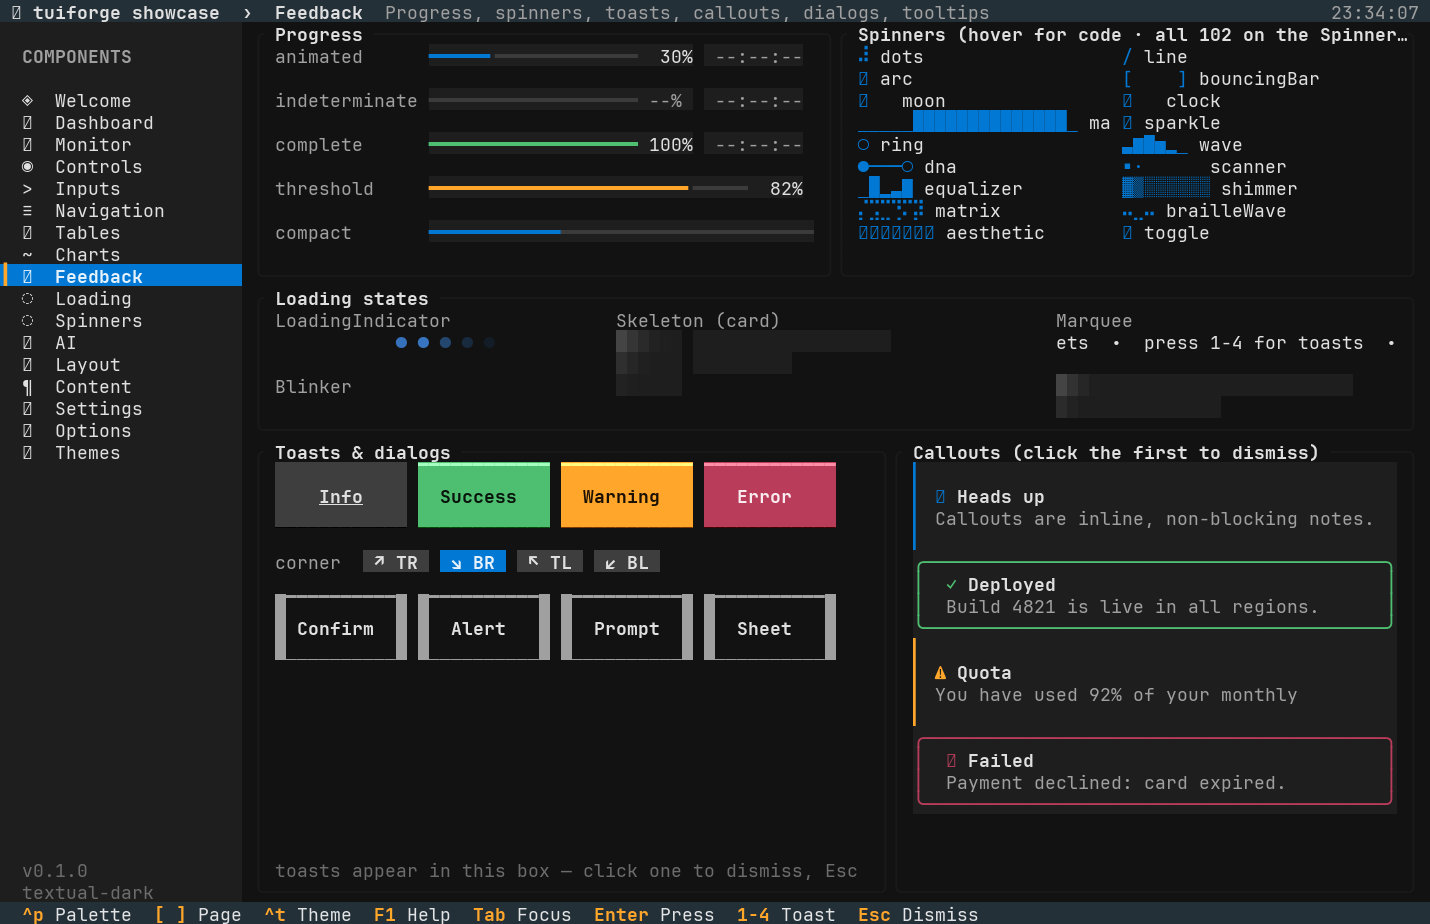
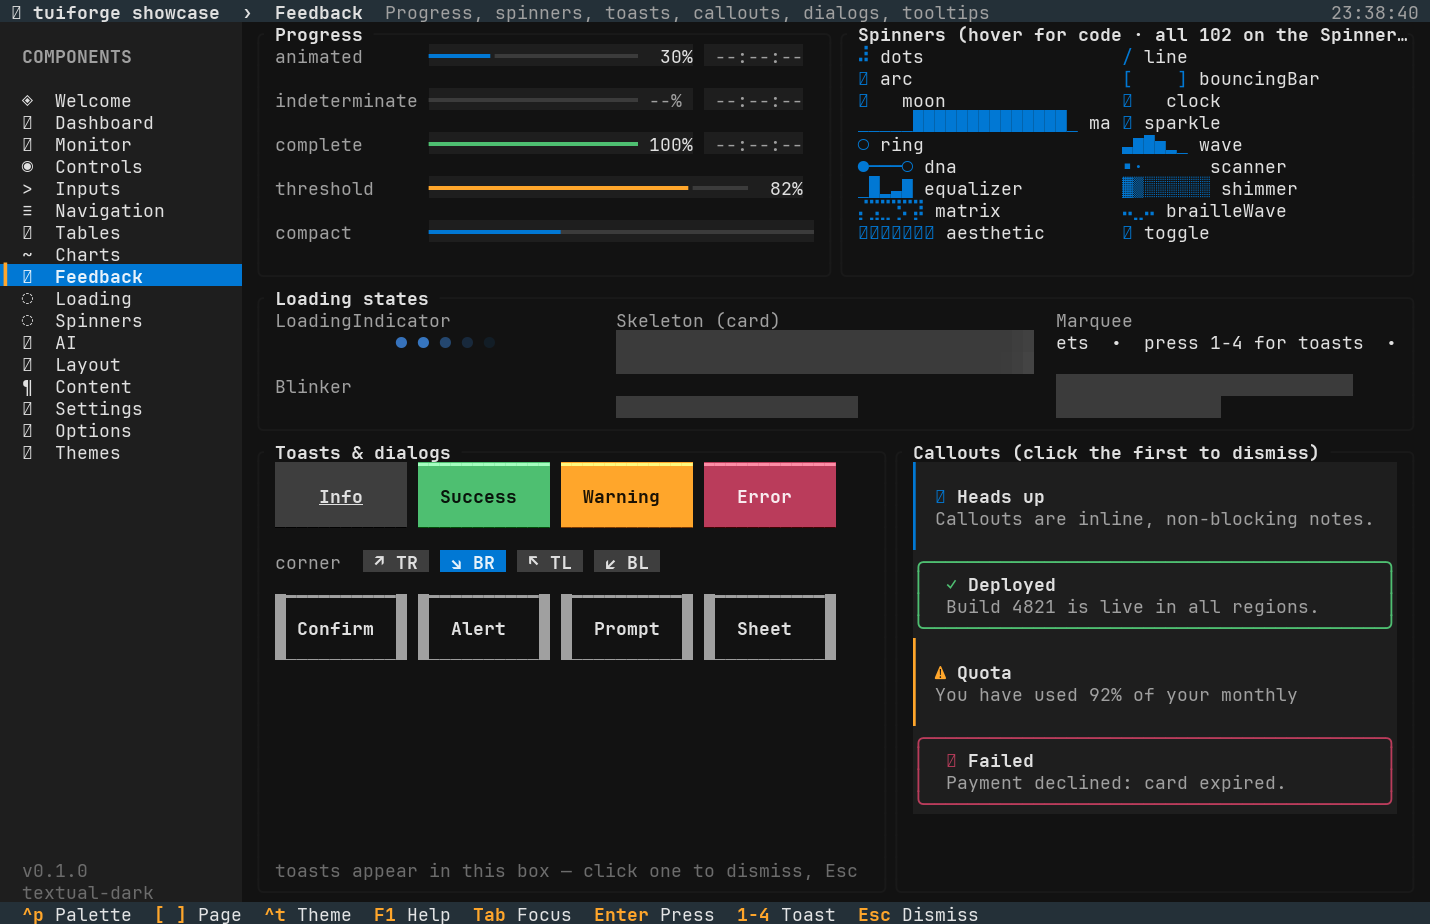
Skeleton redesign: brighter bars, wide smooth sweep, Card = hero+title+lines, new List shape, width-aware Table columns with header cells, Chart baseline

Changed region(s): [[0.4308, 0.3333, 0.9538, 0.4545], [0.9538, 0.0, 1.0, 0.0303]]

diff --git a/tuiforge/src/widgets/loading.rs b/tuiforge/src/widgets/loading.rs
@@ -653,15 +653,17 @@ pub struct Skeleton {
 /// What the placeholder stands in for.
 #[derive(Clone, Copy, Debug, PartialEq, Eq)]
 pub enum SkeletonShape {
-    /// Paragraph: one bar per entry in `.lines(..)`.
+    /// Paragraph: one bar per entry in `.lines(..)` (cells), a blank row between when there's room.
     Text,
-    /// Avatar block with a title and subtitle, then body lines.
+    /// Hero image block on top, then a title and two body lines.
     Card,
-    /// Avatar block with two short lines beside it.
+    /// Avatar block with a name and a handle beside it.
     Avatar,
-    /// Header bar and rows of column cells.
+    /// Stacked avatar rows: a list waiting for its items.
+    List,
+    /// Header cells and rows of column cells; 2-4 columns depending on width.
     Table,
-    /// Bars of varying height along the bottom.
+    /// Bars of varying height along a baseline.
     Chart,
 }
 
@@ -712,10 +714,15 @@ struct Shimmer {
 
 impl Shimmer {
     fn color_at(&self, x: u16, y: u16) -> Rgb {
-        // diagonal band: shift by row so the highlight leans like a light sweep
-        let rel = (x as f32 - self.area.x as f32 + (y as f32 - self.area.y as f32) * 1.5) / self.area.width.max(1) as f32;
+        // a wide, smooth light sweeping left→right with a gentle lean (half a cell per row)
+        let rel = (x as f32 - self.area.x as f32 + (y as f32 - self.area.y as f32) * 0.5) / self.area.width.max(1) as f32;
         let d = (rel - self.band).abs();
-        if d < 0.14 { self.base.blend(self.hl, (1.0 - d / 0.14).powf(2.0)) } else { self.base }
+        const HALF: f32 = 0.28;
+        if d >= HALF {
+            return self.base;
+        }
+        let a = ((d / HALF * std::f32::consts::PI).cos() + 1.0) * 0.5;
+        self.base.blend(self.hl, a)
     }
 
     fn bar(&self, buf: &mut Buffer, x: u16, y: u16, w: u16) {
@@ -729,6 +736,29 @@ impl Shimmer {
             self.bar(buf, r.x, y, r.width);
         }
     }
+
+    /// Rows of bars with `widths` in cells, one blank row between when the height allows.
+    fn lines(&self, buf: &mut Buffer, r: Rect, widths: &[u16]) {
+        let step = if r.height as usize >= widths.len() * 2 - 1 { 2 } else { 1 };
+        for (i, &w) in widths.iter().enumerate() {
+            let y = r.y + i as u16 * step;
+            if y >= r.bottom() {
+                break;
+            }
+            self.bar(buf, r.x, y, w.min(r.width));
+        }
+    }
+}
+
+/// Column fractions for a table skeleton of the given width.
+fn table_columns(width: u16) -> &'static [u16] {
+    if width >= 36 {
+        &[28, 18, 34, 20]
+    } else if width >= 18 {
+        &[40, 25, 35]
+    } else {
+        &[55, 45]
+    }
 }
 
 impl Widget for Skeleton {
@@ -738,90 +768,95 @@ impl Widget for Skeleton {
         }
         let th = self.theme.unwrap_or_else(theme::current);
         let el = phase(self.elapsed, self.now);
-        let sh = Shimmer {
-            base: th.surface,
-            hl: th.surface.blend(th.text_muted, 0.4),
-            band: (el * 0.6).rem_euclid(1.0) * 1.6 - 0.3,
-            area,
-        };
-        let clamp = |w: u16, max: u16| w.min(max);
-        // one blank row between bars when the area is tall enough for it
-        let pitch = |lines: usize, avail: u16| if avail as usize >= lines * 2 - 1 { 2u16 } else { 1 };
+        // bars two shades above the surface, the sweep two more: visible without shouting
+        let base = th.surface.blend(th.text_muted, 0.22);
+        let sh = Shimmer { base, hl: base.blend(th.text_muted, 0.45), band: (el * 0.45).rem_euclid(1.0) * 1.8 - 0.4, area };
+        let pct = |p: u16, of: u16| (of as u32 * p as u32 / 100) as u16;
 
         match self.shape {
-            SkeletonShape::Text => {
-                let step = pitch(self.lines.len().max(1), area.height);
-                for (i, &w) in self.lines.iter().enumerate() {
-                    let y = area.y + i as u16 * step;
-                    if y >= area.bottom() {
-                        break;
-                    }
-                    sh.bar(buf, area.x, y, clamp(w, area.width));
+            SkeletonShape::Text => sh.lines(buf, area, &self.lines),
+            SkeletonShape::Card => {
+                // hero block ≈ 40% of the height (min 2 rows), a title, a blank, then body lines
+                let hero_h = (area.height * 40 / 100).clamp(2, area.height);
+                sh.block(buf, Rect { height: hero_h, ..area });
+                let w = area.width;
+                let title_y = area.y + hero_h + 1;
+                if title_y < area.bottom() {
+                    sh.bar(buf, area.x, title_y, pct(60, w));
+                }
+                let body = Rect { y: title_y + 2, height: area.bottom().saturating_sub(title_y + 2), ..area };
+                if !body.is_empty() {
+                    sh.lines(buf, body, &[pct(100, w), pct(75, w)]);
                 }
             }
-            SkeletonShape::Card | SkeletonShape::Avatar => {
-                let av_h = if self.shape == SkeletonShape::Card { 3 } else { 2 };
-                let av_w = if self.shape == SkeletonShape::Card { 6 } else { 4 };
-                let av = Rect { x: area.x, y: area.y, width: av_w.min(area.width), height: av_h.min(area.height) };
-                sh.block(buf, av);
+            SkeletonShape::Avatar | SkeletonShape::List => {
+                let av_w = 4u16.min(area.width);
                 let tx = area.x + av_w + 1;
-                if tx < area.right() {
-                    let rest = area.right() - tx;
-                    sh.bar(buf, tx, area.y, clamp(rest * 6 / 10, rest));
-                    if area.height > 1 {
-                        sh.bar(buf, tx, area.y + 1, clamp(rest * 3 / 10, rest));
+                let rest = area.right().saturating_sub(tx);
+                let item_h = if self.shape == SkeletonShape::List { 3 } else { area.height.min(2) };
+                let mut y = area.y;
+                while y + 2 <= area.bottom() {
+                    sh.block(buf, Rect { x: area.x, y, width: av_w, height: 2 });
+                    if rest > 0 {
+                        // name and handle, widths nudged per item so the list isn't a grid
+                        let seed = (y - area.y) as u32;
+                        sh.bar(buf, tx, y, pct(55 + (noise(seed, 1) * 25.0) as u16, rest));
+                        sh.bar(buf, tx, y + 1, pct(30 + (noise(seed, 2) * 15.0) as u16, rest));
                     }
-                }
-                if self.shape == SkeletonShape::Card {
-                    let body_y = area.y + av_h + 1;
-                    let step = pitch(self.lines.len().max(1), area.bottom().saturating_sub(body_y));
-                    for (i, &w) in self.lines.iter().enumerate() {
-                        let y = body_y + i as u16 * step;
-                        if y >= area.bottom() {
-                            break;
-                        }
-                        sh.bar(buf, area.x, y, clamp(w, area.width));
+                    if self.shape == SkeletonShape::Avatar {
+                        break;
                     }
+                    y += item_h;
                 }
             }
             SkeletonShape::Table => {
-                // header (darker), then rows of four columns with one-cell gutters
-                let cols = [34u16, 22, 28, 16];
+                let cols = table_columns(area.width);
                 let total: u16 = cols.iter().sum();
-                let header = Shimmer { base: th.surface.blend(th.text_muted, 0.15), ..sh };
-                header.bar(buf, area.x, area.y, area.width);
-                let step = if area.height >= 5 { 2 } else { 1 };
-                for row in 1..area.height.div_ceil(step) {
-                    let y = area.y + row * step;
-                    if y >= area.bottom() {
-                        break;
-                    }
+                let header = Shimmer { base: base.blend(th.text_muted, 0.25), ..sh };
+                let step = if area.height >= 6 { 2 } else { 1 };
+                let mut y = area.y;
+                let mut row = 0u32;
+                while y < area.bottom() {
                     let mut x = area.x;
                     for (ci, &c) in cols.iter().enumerate() {
-                        let mut w = (area.width as u32 * c as u32 / total as u32) as u16;
-                        if w == 0 {
-                            continue;
+                        let col_w = pct(c * 100 / total, area.width).max(2);
+                        let cell_w = if row == 0 {
+                            col_w.saturating_sub(1)
+                        } else {
+                            // data cells vary a little; the last column is a short status/number
+                            let jitter = if col_w >= 6 { (noise(row, ci as u32) * 3.0) as u16 } else { 0 };
+                            col_w.saturating_sub(1 + jitter).max(1)
+                        };
+                        let painter = if row == 0 { &header } else { &sh };
+                        painter.bar(buf, x, y, cell_w.min(area.right().saturating_sub(x)));
+                        x += col_w;
+                        if x >= area.right() {
+                            break;
                         }
-                        // vary widths a little per row so it reads as data, not a grid
-                        let jitter = (noise(row as u32, ci as u32) * 2.5) as u16;
-                        let bar_w = w.saturating_sub(1 + jitter).max(1);
-                        sh.bar(buf, x, y, bar_w.min(area.right().saturating_sub(x)));
-                        w = w.max(1);
-                        x += w;
                     }
+                    y += if row == 0 { 2 } else { step };
+                    row += 1;
                 }
             }
             SkeletonShape::Chart => {
+                if area.height < 2 {
+                    sh.bar(buf, area.x, area.y, area.width);
+                    return;
+                }
                 let bar_w: u16 = if area.width >= 30 { 3 } else { 2 };
                 let pitch = bar_w + 1;
                 let n = (area.width + 1) / pitch;
+                let plot_h = area.height - 1;
                 for k in 0..n {
-                    let level = 0.25 + noise(k as u32, 99) * 0.75;
-                    let h = ((level * area.height as f32).round() as u16).clamp(1, area.height);
+                    let level = 0.2 + noise(k as u32, 99) * 0.8;
+                    let h = ((level * plot_h as f32).round() as u16).clamp(1, plot_h);
                     let x = area.x + k * pitch;
                     let w = bar_w.min(area.right().saturating_sub(x));
-                    sh.block(buf, Rect { x, y: area.bottom() - h, width: w, height: h });
+                    sh.block(buf, Rect { x, y: area.y + plot_h - h, width: w, height: h });
                 }
+                // baseline
+                let axis = Shimmer { base: base.blend(th.background, 0.5), hl: base, ..sh };
+                axis.bar(buf, area.x, area.bottom() - 1, area.width);
             }
         }
     }
@@ -968,7 +1003,7 @@ mod tests {
     #[test]
     fn skeleton_shapes_paint_inside_the_area() {
         let th = Theme::default();
-        for shape in [SkeletonShape::Text, SkeletonShape::Card, SkeletonShape::Avatar, SkeletonShape::Table, SkeletonShape::Chart] {
+        for shape in [SkeletonShape::Text, SkeletonShape::Card, SkeletonShape::Avatar, SkeletonShape::List, SkeletonShape::Table, SkeletonShape::Chart] {
             let area = Rect::new(2, 1, 30, 6);
             let mut buf = Buffer::empty(Rect::new(0, 0, 40, 10));
             Skeleton::new().shape(shape).elapsed(0.2).theme(&th).render(area, &mut buf);

diff --git a/showcase/src/pages/loading.rs b/showcase/src/pages/loading.rs
@@ -103,7 +103,7 @@ impl Page for LoadingPage {
         // ── skeletons | overlay ──
         let [sk, ov] = Layout::horizontal([Constraint::Percentage(72), Constraint::Fill(1)]).areas(bottom);
         let k = pad(card(buf, sk, &th, "Skeleton shapes"), 1, 0);
-        let shapes = [(SkeletonShape::Text, "Text", 12u16), (SkeletonShape::Card, "Card", 16), (SkeletonShape::Avatar, "Avatar", 11), (SkeletonShape::Table, "Table", 20), (SkeletonShape::Chart, "Chart", 0)];
+        let shapes = [(SkeletonShape::Text, "Text", 15u16), (SkeletonShape::Card, "Card", 13), (SkeletonShape::List, "List", 13), (SkeletonShape::Table, "Table", 19), (SkeletonShape::Chart, "Chart", 0)];
         let mut x = k.x;
         for (shape, name, fixed) in shapes {
             let w = if fixed == 0 { k.right().saturating_sub(x) } else { fixed.min(k.right().saturating_sub(x)) };
@@ -113,7 +113,7 @@ impl Page for LoadingPage {
             let w = w.saturating_sub(2);
             put(buf, x, k.y, name, w, muted);
             let body = Rect { x, y: k.y + 1, width: w, height: k.height.saturating_sub(1) };
-            Skeleton::new().shape(shape).lines(&[w, w.saturating_sub(4), w * 3 / 4, w / 2]).elapsed(el).theme(&th).render(body, buf);
+            Skeleton::new().shape(shape).lines(&[w, w * 9 / 10, w * 19 / 20, w * 3 / 5]).elapsed(el).theme(&th).render(body, buf);
             x += w + 2;
         }
 

diff --git a/README.md b/README.md
@@ -142,7 +142,7 @@ take an explicit `.theme(&Theme)`.
 | Data | `DataTable` (sortable, zebra, row/cell cursor, multi-select, column resize, filter), `KeyValueList`, `Digits` (Textual big numerals) |
 | Charts | `SparkChart` (bars, braille line/area, btop dot `Field`, `mirrored`), `BarGraph` (grouped, horizontal), `LineGraph` (braille, area, grid, legend), `ScatterPlot`, `Heatmap`, `ActivityGraph`, `Meter` (line / block / segments / LED `Blocks` / `Dots`, gradient, suffix), `RadialGauge`, `BrailleCanvas` |
 | Feedback | `ProgressBar` (tweened, ETA, indeterminate), `StepProgress`, `Spinner` + `spinners::*` (all 90 [yaspin](https://github.com/pavdmyt/yaspin) / cli-spinners + 12 originals: `SPARKLE`, `RING`, `WAVE`, `EQUALIZER`, `SCANNER`, `SHIMMER`, `DNA`, `MATRIX`…), `LoadingIndicator`, `Marquee`, `Blinker`, `Toaster`/`ToastStack` (accent bar `Edge` thin/half/full, painted remaining-time strip), `Callout` (`LeftBar` / `Bar(Edge)` / `Round`), `Modal` (confirm / alert / prompt), `CommandPalette` (fuzzy), `Tooltip` |
-| Loading | `Loader` × 20 `LoaderStyle`s - bars: `Scanner`, `Comet`, `Sweep`, `FillDrain`, `Pulse`, `Stripes`, `Rainbow`, `Snake`, `Chase`, `Blocks`, `Wave`, `Bounce`, `Ping`, `Heartbeat`; text: `Ellipsis`, `Shimmer`, `Typewriter`; scenes: `Equalizer`, `Rain`, `Radar` (`.label`, `.color/.color2`, `.speed`); `Skeleton` (`Text` / `Card` / `Avatar` / `Table` / `Chart`, painted, diagonal shimmer); `LoadingOverlay` (dim any area, centred loader + message) |
+| Loading | `Loader` × 20 `LoaderStyle`s - bars: `Scanner`, `Comet`, `Sweep`, `FillDrain`, `Pulse`, `Stripes`, `Rainbow`, `Snake`, `Chase`, `Blocks`, `Wave`, `Bounce`, `Ping`, `Heartbeat`; text: `Ellipsis`, `Shimmer`, `Typewriter`; scenes: `Equalizer`, `Rain`, `Radar` (`.label`, `.color/.color2`, `.speed`); `Skeleton` (`Text` / `Card` / `Avatar` / `List` / `Table` / `Chart`, painted bars, smooth diagonal sweep); `LoadingOverlay` (dim any area, centred loader + message) |
 | AI / LLM | `ChatView` (bubbles, streaming, role bar `Edge`), `StreamText`, `Thinking` (any catalog spinner), `ContextGauge` (any `MeterStyle` + gradient, e.g. btop LEDs), `ToolCall`, `TokenHeat`, `DiffView`, `PromptComposer` (any `FieldShape`), `Approval` |
 | Layout & chrome | `SplitPane` (draggable), `ScrollView` (offscreen buffer, smooth), `Scrollbar`, `Panel` (title, right title, footer keys, badge) / card / section, `Collapsible` + `Accordion`, `AppHeader`, `KeyFooter`, `StatusLine` (segments + separators), `Placeholder` |
 | Menus & settings | `OptionList` (grouped `label  value` rows, cursor, in-place bool/choice/int cycling, group index for a sidebar), `BigText` (3-row box-drawing font) + `BigMenu` (btop's `OPTIONS / HELP / QUIT`), `CommandPalette`, `MenuBar` |
